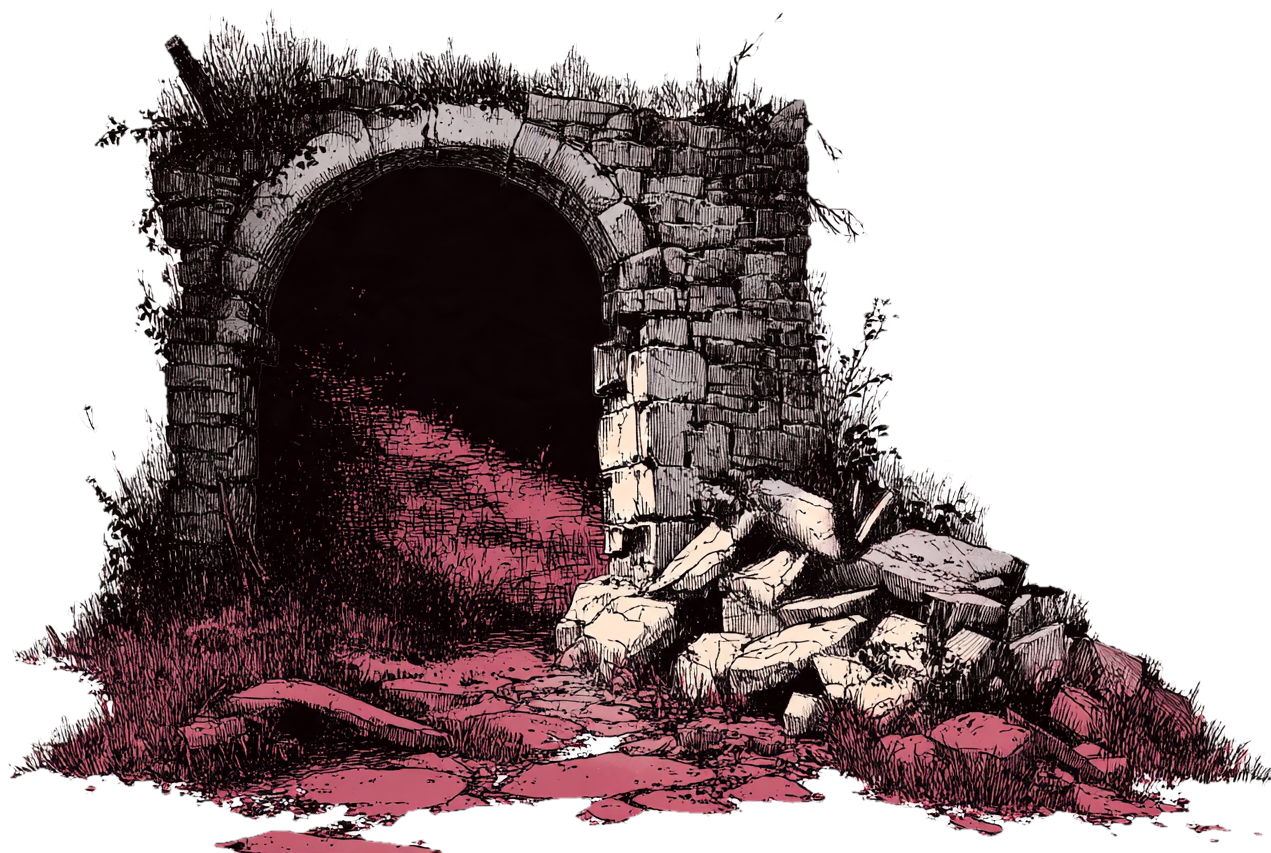
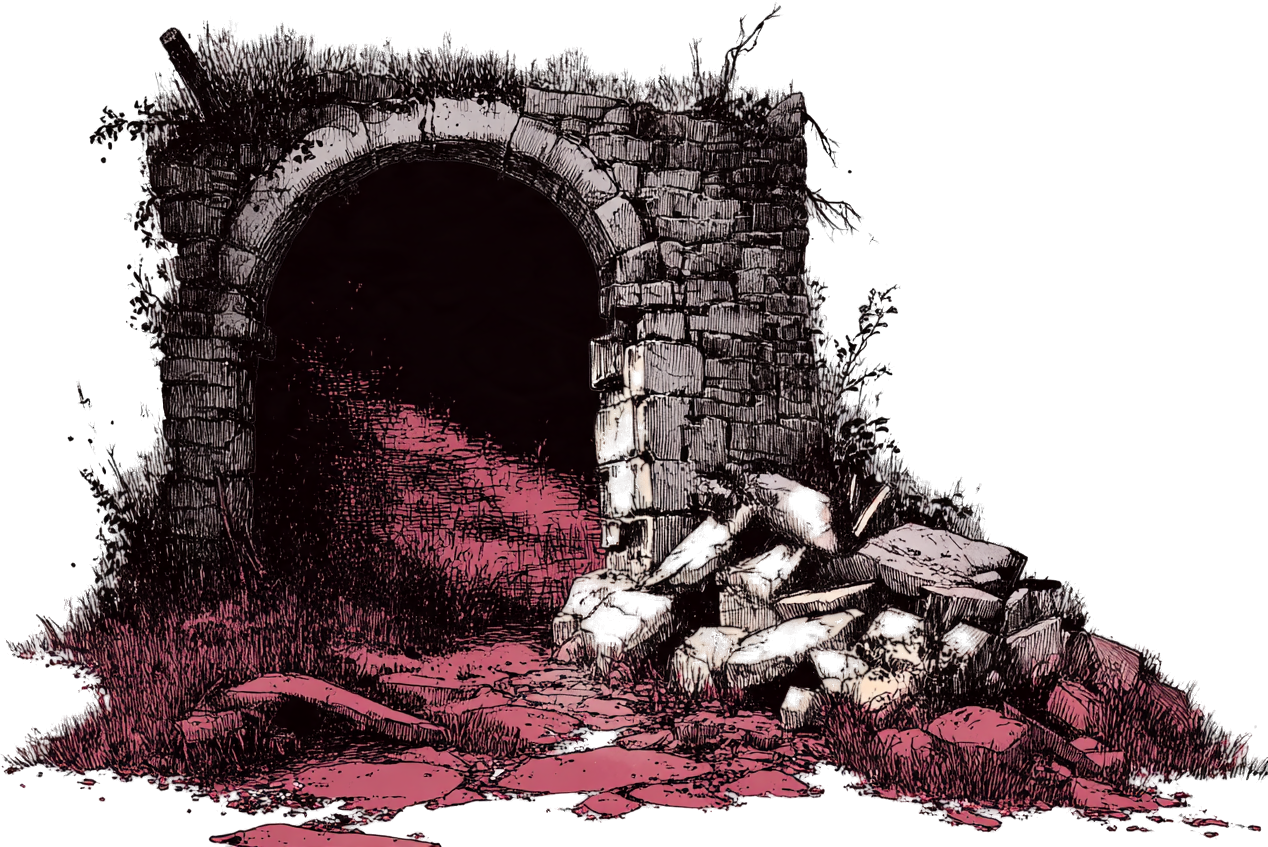
Carreau : couches redétourées (BiRefNet + matting fin, sans liseré), charpente de l'abri E4c ; outil tools/art/detourage.py
Claude-Session: https://claude.ai/code/session_011WbKxCpjrKesw3qGNEFtUB

diff --git a/tools/art/detourage.py b/tools/art/detourage.py
@@ -1,0 +1,33 @@
+# Détourage fin : BiRefNet (forme) + distance au fond uni (trous) -> trimap -> pymatting (alpha
+# fin + couleurs du premier plan sans liseré du fond).
+import sys,time,numpy as np,cv2
+from PIL import Image
+from rembg import remove,new_session
+from pymatting import estimate_alpha_lkm, estimate_foreground_ml
+sess=new_session('birefnet-general')
+for src,dst in zip(sys.argv[1::2],sys.argv[2::2]):
+    t=time.time()
+    pil=Image.open(src).convert('RGB'); im=np.asarray(pil).astype(np.float64)/255
+    h,w=im.shape[:2]
+    a0=np.asarray(remove(pil,session=sess,only_mask=True)).astype(np.float64)/255
+    lab=cv2.cvtColor(im.astype(np.float32),cv2.COLOR_RGB2LAB)
+    border=np.concatenate([lab[:8].reshape(-1,3),lab[:,:8].reshape(-1,3),lab[:,-8:].reshape(-1,3)])
+    bg=np.median(border,0); d=np.linalg.norm(lab-bg,axis=2)
+    # objet = taches de couleur (loin du fond) reliées à la forme BiRefNet ou au bord bas (socle)
+    m=cv2.morphologyEx((d>16).astype(np.uint8),cv2.MORPH_OPEN,np.ones((3,3),np.uint8))
+    n,lab_=cv2.connectedComponents(m)
+    core=a0>0.5; keep=np.zeros((h,w),bool)
+    ids=set(np.unique(lab_[core]))|set(np.unique(lab_[-3:,:]))
+    ids.discard(0)
+    keep=np.isin(lab_,list(ids))
+    fg=cv2.erode((keep&(d>24)).astype(np.uint8),np.ones((3,3),np.uint8))>0
+    bgm=(d<6)|~(cv2.dilate(keep.astype(np.uint8),np.ones((7,7),np.uint8))>0)
+    bgm=cv2.erode(bgm.astype(np.uint8),np.ones((3,3),np.uint8))>0
+    tri=np.full((h,w),0.5); tri[fg]=1; tri[bgm&~fg]=0
+    alpha=estimate_alpha_lkm(im,tri,laplacian_kwargs={"radius":3})
+    alpha=np.clip(alpha,0,1); alpha[alpha<0.02]=0; alpha[alpha>0.98]=1
+    F=estimate_foreground_ml(im,alpha)
+    ys,xs=np.nonzero(alpha>0.02)
+    out=np.dstack([F,alpha])[ys.min():ys.max()+1,xs.min():xs.max()+1]
+    Image.fromarray((np.clip(out,0,1)*255).astype(np.uint8)).save(dst)
+    print(dst,out.shape,round(time.time()-t,1),'s',flush=True)
